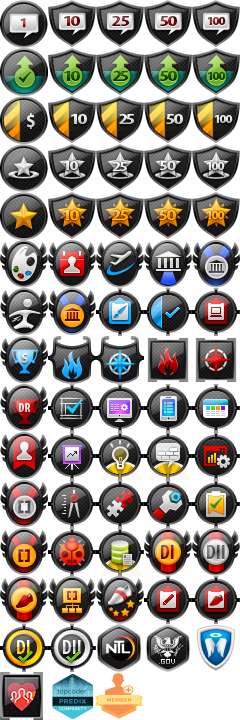
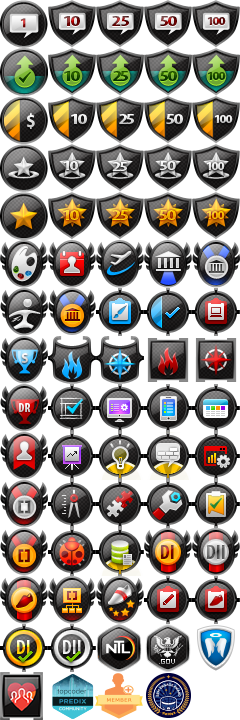
Added code to display SRM badge on dashboard

Changed region(s): [[0.6125, 0.9167, 0.8167, 1.0]]

diff --git a/app/directives/page-state-header/page-state-header.directive.js b/app/directives/page-state-header/page-state-header.directive.js
@@ -39,6 +39,8 @@ import _ from 'lodash'
       vm.previousStateName = null
       vm.previousStateLabel = null
       vm.previousState = null
+      vm.dashboardBadgeName = null
+      
 
       // identifies the previous state
       if ($scope.$root.previousState && $scope.$root.previousState.name.length > 0) {
@@ -65,11 +67,10 @@ import _ from 'lodash'
 
         // get members dashboard badge
         UserService.getV2UserProfile(vm.handle).then(function(resp) {
-          // Calling the mock to return a badge
-          // In actuality filtering should be done by whether the achievement contains a field 'forDashboard' or not.
-          var dashboardAchievement = _filterDashboardAchievement(resp.Achievements || [])[0]
 
+          var dashboardAchievement = _filterDashboardAchievement(resp.Achievements || [])[0]
           if (dashboardAchievement) {
+            //Get dashboard badges
             vm.dashboardBadge = BadgeService.getAchievementVm(dashboardAchievement)
           }
         })
@@ -119,34 +120,16 @@ import _ from 'lodash'
       })
       .catch(function(err) {
         $scope.hideMoney = true
-
         logger.error('Could not get user financial information', err)
       })
     }
-
-    // Temporary function to simulate dashboard achievement
-    function _filterDashboardAchievement(achievements) {
-      // If forceBadge is true, it displays the achievement in _mock, whether the user has that achievement or not
-      var _forceBadge = false
-
-      // temoprary config object that maps usernames to badge name
-      var _mock = {
-        ronakkaria: 'First Win',
-        birdofpreyru: 'Predix Community'
-      }
-
-      var dashboardBadgeName = _mock[vm.handle]
-      if (!dashboardBadgeName) { return [] }
-
-      if (_forceBadge) {
-        return [{
-          date: new Date(),
-          description: _mock[vm.handle]
-        }]
-      }
+        
+    function _filterDashboardAchievement(achievements) {      
+      //Currently only one batch is shown on the dashboard
+      vm.dashboardBadgeName = 'SRM Engagement Honor'
 
       return achievements.filter(function(achievement) {
-        return (achievement.description === dashboardBadgeName)
+        return (achievement.description === vm.dashboardBadgeName)
       })
     }
 

diff --git a/app/profile/badges/badges.controller.js b/app/profile/badges/badges.controller.js
@@ -18,7 +18,16 @@ import angular from 'angular'
 
     var achievementsVm = BadgeService.buildAllAchievementsVm($scope.achievements)
     badgeCtrl.achievementGroups = achievementsVm.achievementGroups
-    badgeCtrl.singleAchievements = achievementsVm.singleAchievements
+    
+    //Dashboard badges shoudn't be displyed on public profile page
+    badgeCtrl.singleAchievements = removeDashBoardAchivements(achievementsVm.singleAchievements)  
+  }
+
+  function removeDashBoardAchivements(singleAchievements){
+    var dashboardBadgeName = 'SRM Engagement Honor'
+    return singleAchievements.filter(function(achievement){
+      return (achievement.name != dashboardBadgeName)
+    }) 
   }
 
 })()

diff --git a/assets/css/directives/page-state-header.directive.scss b/assets/css/directives/page-state-header.directive.scss
@@ -64,6 +64,26 @@
 
       }
 
+      .badgeItem {
+        display: flex;
+        flex-direction: column;
+        justify-content: space-between;
+        align-items: flex-end;
+
+        position: relative;
+        margin-left: 40px;
+        margin-right: 20px;
+        
+
+        font-family: 'Sofia Pro', Arial, Helvetica, sans-serif;
+        font-weight: 400;
+
+        .value {
+          font-size: 24px;
+          margin-bottom: 15px;
+        }                                           
+      }
+
     }
   }
 }

diff --git a/app/services/badge.service.js b/app/services/badge.service.js
@@ -648,6 +648,12 @@ import moment from 'moment-timezone'
           name: 'iOS Community',
           groupClass: 'iOS-Community',
           active: false
+        },
+        {
+          id: 1010,
+          name: 'SRM Engagement Honor',
+          groupClass: 'SRM-Engagement-Honor-Badge',
+          active: false
         }
       ]
     }

diff --git a/assets/css/directives/badge-tooltip.scss b/assets/css/directives/badge-tooltip.scss
@@ -678,3 +678,7 @@ span.subBadge.selected {
   background: url(../../images/tt-arrow.png) no-repeat;
   background-position: 0 0;
 }
+
+.SRM-Engagement-Honor-Badge {
+    background-position: -146px -671px;
+}
